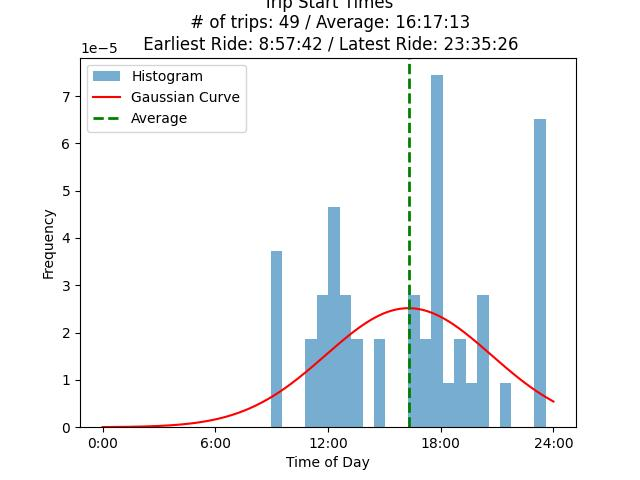
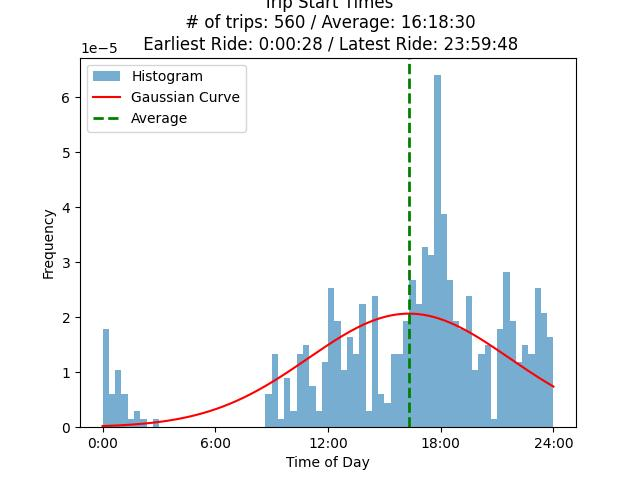
Full dataset downloaded, more tweaks

diff --git a/Present_Data.py b/Present_Data.py
@@ -17,37 +17,37 @@ with open('list_file.txt', 'r') as file:
 # print(dataset[2])
 # print(dataset[3])
 
-# # start_date ------------------------------------------------------------------------------------------------
-# # Time of day
-# datetime_time = [datetime.strptime(time.strip(), '%m-%d-%Y %H:%M:%S').time() for time in dataset[0]]
-# numeric_durations = [(dt.hour * 3600) + (dt.minute * 60) + dt.second for dt in datetime_time]
-# mean = np.mean(numeric_durations)
-# std_dev = np.std(numeric_durations)
-# min = np.min(numeric_durations)
-# max = np.max(numeric_durations)
-#
-# # Generate data points following a normal distribution
-# num_points = 1000
-# data_points = np.random.normal(mean, std_dev, num_points)
-# # Plot the histogram
-# plt.hist(numeric_durations, bins=24, density=True, alpha=0.6, label='Histogram')
-# # Overlay the Gaussian curve
-# x_values = np.linspace(0, 24*3600, num_points)
-# y_values = stats.norm.pdf(x_values, mean, std_dev)
-# plt.plot(x_values, y_values, 'r-', label='Gaussian Curve')
-# plt.xticks([0,6*3600,12*3600,18*3600,24*3600],['0:00','6:00','12:00','18:00','24:00'])
-# # Average
-# plt.axvline(mean, color='g', linestyle='--', linewidth=2, label='Average')
-#
-# plt.xlabel('Time of Day')
-# plt.ylabel('Frequency')
-# plt.title('Trip Start Times\n\
-#  # of trips: '+str(len(dataset[1]))+' / Average: '+str(timedelta(seconds=round(float(mean)))).split(", ")[-1]+'\n\
-#  Earliest Ride: '+str(timedelta(seconds=round(float(min)))).split(", ")[-1]+' / Latest Ride: '+str(timedelta(seconds=round(float(max)))).split(", ")[-1])
-# plt.legend()
-# plt.savefig('Outputs/TimeOfDayHist.jpeg')
-# plt.show()
-# plt.close()
+# start_date ------------------------------------------------------------------------------------------------
+# Time of day
+datetime_time = [datetime.strptime(time.strip(), '%m-%d-%Y %H:%M:%S').time() for time in dataset[0]]
+numeric_durations = [(dt.hour * 3600) + (dt.minute * 60) + dt.second for dt in datetime_time]
+mean = np.mean(numeric_durations)
+std_dev = np.std(numeric_durations)
+min = np.min(numeric_durations)
+max = np.max(numeric_durations)
+
+# Generate data points following a normal distribution
+num_points = 1000
+data_points = np.random.normal(mean, std_dev, num_points)
+# Plot the histogram
+plt.hist(numeric_durations, bins=24*3, density=True, alpha=0.6, label='Histogram')
+# Overlay the Gaussian curve
+x_values = np.linspace(0, 24*3600, num_points)
+y_values = stats.norm.pdf(x_values, mean, std_dev)
+plt.plot(x_values, y_values, 'r-', label='Gaussian Curve')
+plt.xticks([0,6*3600,12*3600,18*3600,24*3600],['0:00','6:00','12:00','18:00','24:00'])
+# Average
+plt.axvline(mean, color='g', linestyle='--', linewidth=2, label='Average')
+
+plt.xlabel('Time of Day')
+plt.ylabel('Frequency')
+plt.title('Trip Start Times\n\
+ # of trips: '+str(len(dataset[1]))+' / Average: '+str(timedelta(seconds=round(float(mean)))).split(", ")[-1]+'\n\
+ Earliest Ride: '+str(timedelta(seconds=round(float(min)))).split(", ")[-1]+' / Latest Ride: '+str(timedelta(seconds=round(float(max)))).split(", ")[-1])
+plt.legend()
+plt.savefig('Outputs/TimeOfDayHist.jpeg')
+plt.show()
+plt.close()
 
 #--------------------------------
 # Rides in a month
@@ -59,6 +59,9 @@ plt.hist(numeric_durations, bins=12, label='Histogram',width=0.85)
 months = ['January', 'February', 'March', 'April', 'May', 'June', 'July','August', 'September', 'October', 'November', 'December']
 plt.xticks(np.linspace(1, 12, 12),months,rotation=45)
 
+starting_month = 6
+plt.axvline(x=starting_month, color='r', linestyle='--', label='Starting Month\n2022 (right) / 2023 (left)')
+
 plt.xlabel('Months')
 plt.ylabel('Frequency')
 plt.title('Rides per Month\n# of trips: '+str(len(dataset[1])))
@@ -67,81 +70,82 @@ plt.savefig('Outputs/RidesPerMonthHist.png')
 plt.show()
 plt.close()
 
-# # durations ------------------------------------------------------------------------------------------------
-# datetime_durations = [datetime.strptime(time.strip(), '%H:%M:%S').time() for time in dataset[1]]
-# numeric_durations = [(dt.hour * 3600) + (dt.minute * 60) + dt.second for dt in datetime_durations]
-# mean = np.mean(numeric_durations)
-# std_dev = np.std(numeric_durations)
-# min = np.min(numeric_durations)
-# max = np.max(numeric_durations)
-#
-# # Generate data points following a normal distribution
-# num_points = 1000
-# data_points = np.random.normal(mean, std_dev, num_points)
-# # Plot the histogram
-# plt.hist(numeric_durations, bins=50, density=True, alpha=0.6, label='Histogram')
-# # Overlay the Gaussian curve
-# x_values = np.linspace(np.min(numeric_durations), np.max(numeric_durations), num_points)
-# y_values = stats.norm.pdf(x_values, mean, std_dev)
-# plt.plot(x_values, y_values, 'r-', label='Gaussian Curve')
-# plt.xticks([0,6*60,12*60,18*60,24*60,30*60,36*60,42*60],['0:00','6:00','12:00','18:00','24:00','30:00','36:00','42:00'])
-# # Average
-# plt.axvline(mean, color='g', linestyle='--', linewidth=2, label='Average')
-#
-# plt.xlabel('Time')
-# plt.ylabel('Frequency')
-# plt.title('Trip Durations\n\
-#  # of trips: '+str(len(dataset[1]))+' / Average: '+str(timedelta(seconds=round(float(mean)))).split(", ")[-1]+'\n\
-#  Shortest Ride: '+str(timedelta(seconds=round(float(min)))).split(", ")[-1]+' / Longest Ride: '+str(timedelta(seconds=round(float(max)))).split(", ")[-1])
-# plt.legend()
-# plt.savefig('Outputs/RidesDurationsHist.png')
-# plt.show()
-# plt.close()
+# durations ------------------------------------------------------------------------------------------------
+datetime_durations = [datetime.strptime(time.strip(), '%H:%M:%S').time() for time in dataset[1]]
+numeric_durations = [(dt.hour * 3600) + (dt.minute * 60) + dt.second for dt in datetime_durations]
+mean = np.mean(numeric_durations)
+std_dev = np.std(numeric_durations)
+min = np.min(numeric_durations)
+max = np.max(numeric_durations)
 
-# # station_name_start ------------------------------------------------------------------------------------------------
-# station_counter = Counter(list(map(str.strip, dataset[2])))
-# locations = list(station_counter.keys())
-# visit_counts = list(station_counter.values())
-#
-# # Obtain coordinates for each address using geocoding
-# from Location_to_Coordinates import location_to_coordinates
-# coordinates = location_to_coordinates(locations,visit_counts)
-# # print(coordinates)
-#
-# # Create the base map using OpenStreetMap tiles
-# heatmap_map = folium.Map(location=coordinates[0][0:2], zoom_start=12, tiles='OpenStreetMap')
-# # Add the heatmap layer to the base map
-# HeatMap(coordinates).add_to(heatmap_map)
-# heatmap_map.save('start_heatmap_map.html')
-#
-# # station_name_end ------------------------------------------------------------------------------------------------
-# station_counter = Counter(list(map(str.strip, dataset[3])))
-# locations = list(station_counter.keys())
-# visit_counts = list(station_counter.values())
-#
-# # Obtain coordinates for each address using geocoding
-# from Location_to_Coordinates import location_to_coordinates
-# coordinates = location_to_coordinates(locations,visit_counts)
-# # print(coordinates)
-#
-# # Create the base map using OpenStreetMap tiles
-# heatmap_map = folium.Map(location=coordinates[0][0:2], zoom_start=12, tiles='OpenStreetMap')
-# # Add the heatmap layer to the base map
-# HeatMap(coordinates).add_to(heatmap_map)
-# heatmap_map.save('end_heatmap_map.html')
-#
-# # station_name_combined ------------------------------------------------------------------------------------------------
-# station_counter = Counter(list(map(str.strip, dataset[2]+dataset[3])))
-# locations = list(station_counter.keys())
-# visit_counts = list(station_counter.values())
-#
-# # Obtain coordinates for each address using geocoding
-# from Location_to_Coordinates import location_to_coordinates
-# coordinates = location_to_coordinates(locations,visit_counts)
-# # print(coordinates)
-#
-# # Create the base map using OpenStreetMap tiles
-# heatmap_map = folium.Map(location=coordinates[0][0:2], zoom_start=12, tiles='OpenStreetMap')
-# # Add the heatmap layer to the base map
-# HeatMap(coordinates).add_to(heatmap_map)
-# heatmap_map.save('combined_heatmap_map.html')
+# Generate data points following a normal distribution
+num_points = 1000
+data_points = np.random.normal(mean, std_dev, num_points)
+# Plot the histogram
+plt.hist(numeric_durations, bins=50*2, density=True, alpha=0.6, label='Histogram')
+# Overlay the Gaussian curve
+x_values = np.linspace(np.min(numeric_durations), np.max(numeric_durations), num_points)
+y_values = stats.norm.pdf(x_values, mean, std_dev)
+plt.plot(x_values, y_values, 'r-', label='Gaussian Curve')
+plt.xticks([0,6*60,12*60,18*60,24*60,30*60,36*60,42*60],['0:00','6:00','12:00','18:00','24:00','30:00','36:00','42:00'])
+# Average
+plt.axvline(mean, color='g', linestyle='--', linewidth=2, label='Average')
+
+plt.xlabel('Time')
+plt.ylabel('Frequency')
+plt.title('Trip Durations\n\
+ # of trips: '+str(len(dataset[1]))+' / Average: '+str(timedelta(seconds=round(float(mean)))).split(", ")[-1]+'\n\
+ Shortest Ride: '+str(timedelta(seconds=round(float(min)))).split(", ")[-1]+' / Longest Ride: '+str(timedelta(seconds=round(float(max)))).split(", ")[-1])
+plt.legend()
+plt.savefig('Outputs/RidesDurationsHist.png')
+plt.show()
+plt.close()
+
+# station_name_start ------------------------------------------------------------------------------------------------
+station_counter = Counter(list(map(str.strip, dataset[2])))
+locations = list(station_counter.keys())
+print(locations)
+visit_counts = list(station_counter.values())
+
+# Obtain coordinates for each address using geocoding
+from Location_to_Coordinates import location_to_coordinates
+coordinates = location_to_coordinates(locations,visit_counts)
+# print(coordinates)
+
+# Create the base map using OpenStreetMap tiles
+heatmap_map = folium.Map(location=coordinates[0][0:2], zoom_start=12, tiles='OpenStreetMap')
+# Add the heatmap layer to the base map
+HeatMap(coordinates).add_to(heatmap_map)
+heatmap_map.save('Outputs/start_heatmap_map.html')
+
+# station_name_end ------------------------------------------------------------------------------------------------
+station_counter = Counter(list(map(str.strip, dataset[3])))
+locations = list(station_counter.keys())
+visit_counts = list(station_counter.values())
+
+# Obtain coordinates for each address using geocoding
+from Location_to_Coordinates import location_to_coordinates
+coordinates = location_to_coordinates(locations,visit_counts)
+# print(coordinates)
+
+# Create the base map using OpenStreetMap tiles
+heatmap_map = folium.Map(location=coordinates[0][0:2], zoom_start=12, tiles='OpenStreetMap')
+# Add the heatmap layer to the base map
+HeatMap(coordinates).add_to(heatmap_map)
+heatmap_map.save('Outputs/end_heatmap_map.html')
+
+# station_name_combined ------------------------------------------------------------------------------------------------
+station_counter = Counter(list(map(str.strip, dataset[2]+dataset[3])))
+locations = list(station_counter.keys())
+visit_counts = list(station_counter.values())
+
+# Obtain coordinates for each address using geocoding
+from Location_to_Coordinates import location_to_coordinates
+coordinates = location_to_coordinates(locations,visit_counts)
+# print(coordinates)
+
+# Create the base map using OpenStreetMap tiles
+heatmap_map = folium.Map(location=coordinates[0][0:2], zoom_start=12, tiles='OpenStreetMap')
+# Add the heatmap layer to the base map
+HeatMap(coordinates).add_to(heatmap_map)
+heatmap_map.save('Outputs/combined_heatmap_map.html')

diff --git a/Location_to_Coordinates.py b/Location_to_Coordinates.py
@@ -1,6 +1,7 @@
 from geopy import Nominatim
 
 def location_to_coordinates(locations, visit_counts):
+    # Hardcoded Values
     coordinate_dict = {
         "Fort York Blvd / Garrison Rd":"43.63739613451603, -79.40612171600311",
         "Kew Beach Ave / Kenilworth Ave":"43.66633047663169, -79.30140222538206",
@@ -8,7 +9,17 @@ def location_to_coordinates(locations, visit_counts):
         "Coronation Park (Martin Goodman Trail)": "43.63558375535192, -79.4035811953714",
         "Housey St / Dan Leckie Way": "43.638155708522774, -79.3975186737966",
         "D'Arcy St / McCaul St": "43.65532958729307, -79.39185752239844",
-        "University Ave / Richmond St W": "43.65013976200553, -79.38611012416523"
+        "University Ave / Richmond St W": "43.65013976200553, -79.38611012416523",
+        "Berkeley St / Adelaide St E": "43.653339189811796, -79.36496897399171",
+        "111 Bond St (North of Dundas St E) ": "43.65690292756406, -79.37854144306614",
+        "Dalton Rd / Bloor St W": "43.66611012212478, -79.40667964746912",
+        "King St W / Jordan St": "43.648991509352406, -79.37863025118989",
+        "Princess St / Adelaide St E": "43.65240097833613, -79.36738658196664",
+        "Queens Quay E / Lower Sherbourne St": "43.64516208005284, -79.36546389057112",
+        "Hubbard Blvd. / Glen Manor Dr.": "43.66874924814692, -79.29138409914165",
+        "Strachan Ave / Princes' Blvd": "43.6348661579098, -79.40907311509858",
+        "Dundas St E / Pembroke St": "43.65819629206575, -79.37237783154258",
+        "Bathurst St / Adelaide St W": "43.644871753471605, -79.40304417522952"
     }
 
     # Obtain coordinates for each address using geocoding
@@ -19,6 +30,10 @@ def location_to_coordinates(locations, visit_counts):
         # Cleanup
         if location.endswith(' - SMART'):
             location = location[:-len(' - SMART')]
+        elif location.endswith(' -SMART'):
+            location = location[:-len(' -SMART')]
+        elif location.endswith(' SMART'):
+            location = location[:-len(' SMART')]
 
         # Find coordinates
         coordinate = geolocator.geocode(location)
@@ -53,6 +68,8 @@ def location_to_coordinates(locations, visit_counts):
                 coordinate_latitude = float(coordinate.split(',')[0])
                 coordinate_longitude = float(coordinate.split(',')[1])
                 coordinates.append((coordinate_latitude, coordinate_longitude,visit_count))
+
+        print(location)
 
     print(str(len(coordinates))+" out of "+str(len(locations))+" coordinates found")
     return(coordinates)
